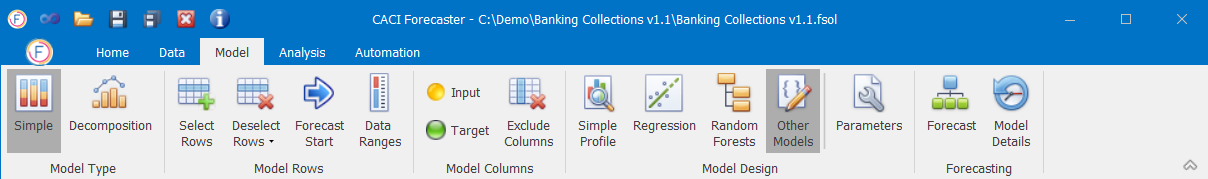
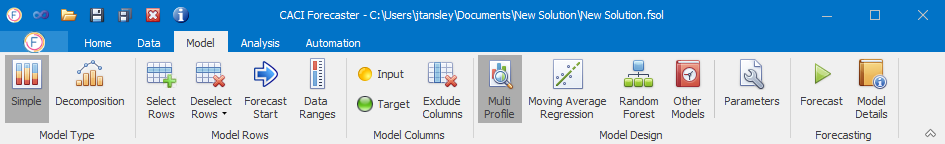
Model tab cleanup

diff --git a/getting-started/user-guide.md b/getting-started/user-guide.md
@@ -1,15 +1,12 @@
 # User Guide Overview
 
-
-Forecaster is a powerful demand forecasting tool that helps you quickly produce accurate data-driven forecasts.
-
 This User Guide has 3 main sections: this Quick Start section, a Reference section, a How To section. 
 
-1.  This Quick Start section starts with a quick tutorial on how to set up a very basic model in Forecaster. Subsequent sections give a brief overview of the main Forecaster functionality. 
+1.  This **Quick Start** section starts with a quick tutorial on how to set up a very basic model in Forecaster. Subsequent sections give a brief overview of the main Forecaster functionality. 
 
-2. The Reference section provides detailed information on all Forecaster functionality, with a structure reflecting that of Forecaster itself.
+2. The [Reference](/reference/user-guide.md) section provides detailed information on all Forecaster functionality, with a structure reflecting that of Forecaster itself.
 
-3. The How To section on the other hand is written around specific topics, such as how to choose the best forecast model, or how to deal with interval data.
+3. The [How To](/use-cases/use-cases.md) section on the other hand is written around specific topics, such as how to choose the best forecast model, or how to deal with interval data.
 
 ## Quick Start
 <!--* [About the User Guide](getting-started/user-guide.md) -->

diff --git a/reference/Forecasting/Forecasting Overview.md b/reference/Forecasting/Forecasting Overview.md
@@ -1,0 +1,22 @@
+
+## Model Tab
+
+The Model tab is where most of the actual forecasting work takes place. In this tab, you can specify training and forecast ranges, select model inputs and target, as well as choosing and running the actual forecasting model.
+
+The Model tab ribbon contains the following sections
+
+For selecting between Simple and Decomposition models:
+{% page-ref page="Model-Type.md" %}
+
+For managing model rows, including deselecting and setting training and forecast ranges:
+{% page-ref page="Model-Rows.md" %}
+
+For managing model columns, for instance choosing model inputs and target:
+{% page-ref page="Model-Columns.md" %}
+
+For selecting the forecast model to use:
+{% page-ref page="Model-Design.md" %}
+
+For running and viewing the forecast model:
+{% page-ref page="Forecasting.md" %}
+

diff --git a/reference/Forecasting/Forecasting-ribbon.md b/reference/Forecasting/Forecasting-ribbon.md
@@ -1,7 +1,6 @@
+# Model Tab Forecasting Section
 
-
-
-### Forecasting
+## Forecasting
 
 Once you've selected a forecast model, you can click on the **Forecast** button in the **Data – Forecasting** ribbon.  This will populate the last two columns in the data grid: Forecast and Forecast Error.
 
@@ -12,7 +11,7 @@ Note that if the forecast model contains inputs, each input column needs to be p
 Progress on the forecast generation will be shown in the Output Window.  The performance of the forecast is now ready to be reviewed using the **Analysis** tab.
 
 
-### Model Details
+## Model Details
 
 Once the forecast has been created, you can see the model's details by clicking on the relevant button as in the image below.
 

diff --git a/SUMMARY.md b/SUMMARY.md
@@ -24,12 +24,12 @@
     * [Exporting Data](reference/Data/Data-Exporters.md)
     * [Data Rows & Columns](reference/Data/Data-Rows-Columns.md)
 
-* [Model Tab]()
+* [Model Tab](reference/Forecasting/Forecasting-ribbon.md)
     * [Model Types](reference/Forecasting/Model-Type.md)
     * [Model Rows](reference/Forecasting/Model-Rows.md)
     * [Model Columns](reference/Forecasting/Model-Columns.md)
     * [Model Design](reference/Forecasting/Model-Design.md)
-    * [Forecasting](reference/Forecasting/Forecasting.md)
+    * [Forecasting](reference/Forecasting/Forecasting-ribbon.md)
   
 * [Analysis Tab]()
     * [Charts](reference/Analysis/Charts-And-Error-Metrics.md)

diff --git a/reference/Home/Home-Tools.md b/reference/Home/Home-Tools.md
@@ -2,7 +2,7 @@
 
 The Tools section of the main ribbon's Home tab provides a range of tools for viewing scripts (Forecaster uses these typically for importing and exporting data, as well as providing all the forecasting models) and managing settings. It holds 3 buttons as shown here.
 
-![Tools section of the Home ribbon](../Getting-started/imgs/Home_Tools.png)
+![Tools section of the Home ribbon](imgs/Home_Tools.png)
 
 The following sections cover the operation of these 3 buttons
 

diff --git a/reference/Home/Home.md b/reference/Home/Home.md
@@ -1,7 +1,7 @@
 # Home Tab
 
 <!--![Home Tab Ribbon](/reference/Getting-started/imgs/HomeTab.png) -->
-![Home Tab Ribbon](/reference/Getting-started/imgs/Home_Ribbon.png)
+![Home Tab Ribbon](/getting-started/imgs/Home_Ribbon.png)
 
 The first tab on the Forecaster ribbon is the Home tab.  This tab lets you create and manipulate Solutions and Projects, manage application settings, as well as providing help. The Home ribbon breaks down into 3 groups:
 

diff --git a/getting-started/Getting-started.md b/getting-started/Getting-started.md
@@ -1,7 +1,7 @@
 ![CACI Forecaster](imgs/ForecasterSplashWide.png)
 # Getting Started with CACI Forecaster
 
-If you're new to Forecaster, the following quick start Tutorial takes you through setting up your first Forecaster project:
+If you're new to Forecaster, the following quick start tutorial takes you through setting up your first Forecaster project:
 {% page-ref page="Tutorial.md" %}
 
 Navigating in Forecaster is explained here:
